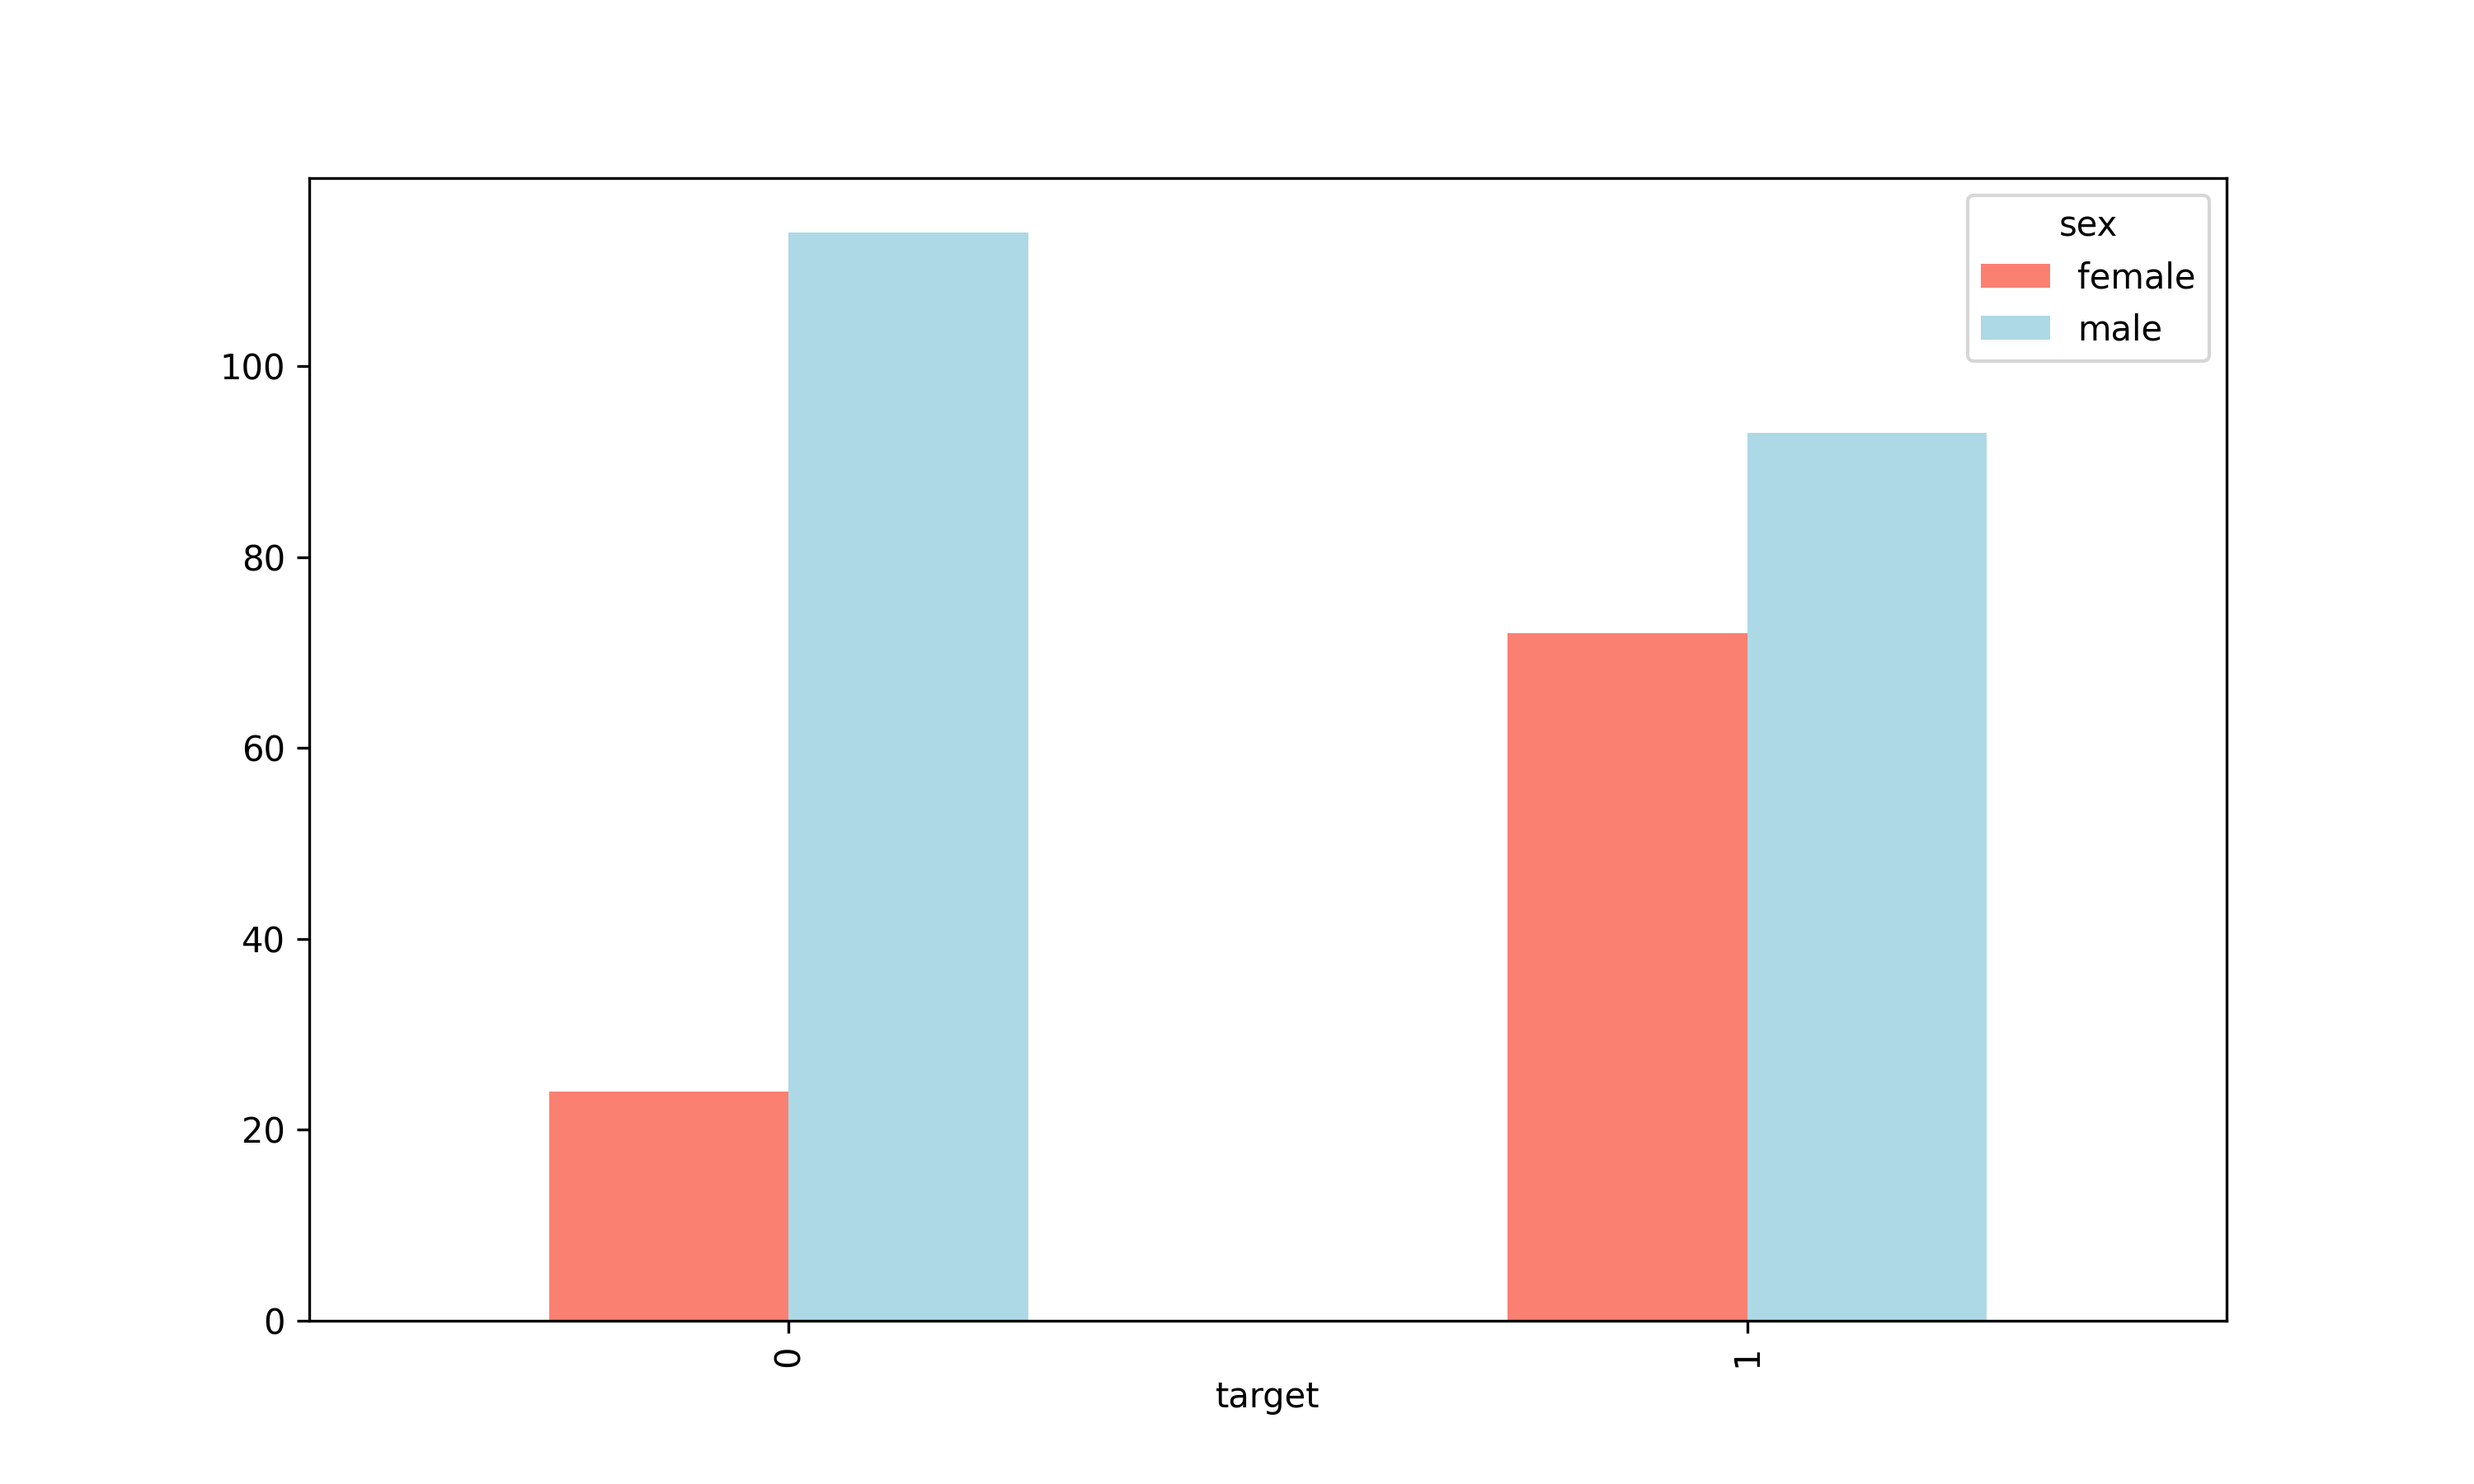
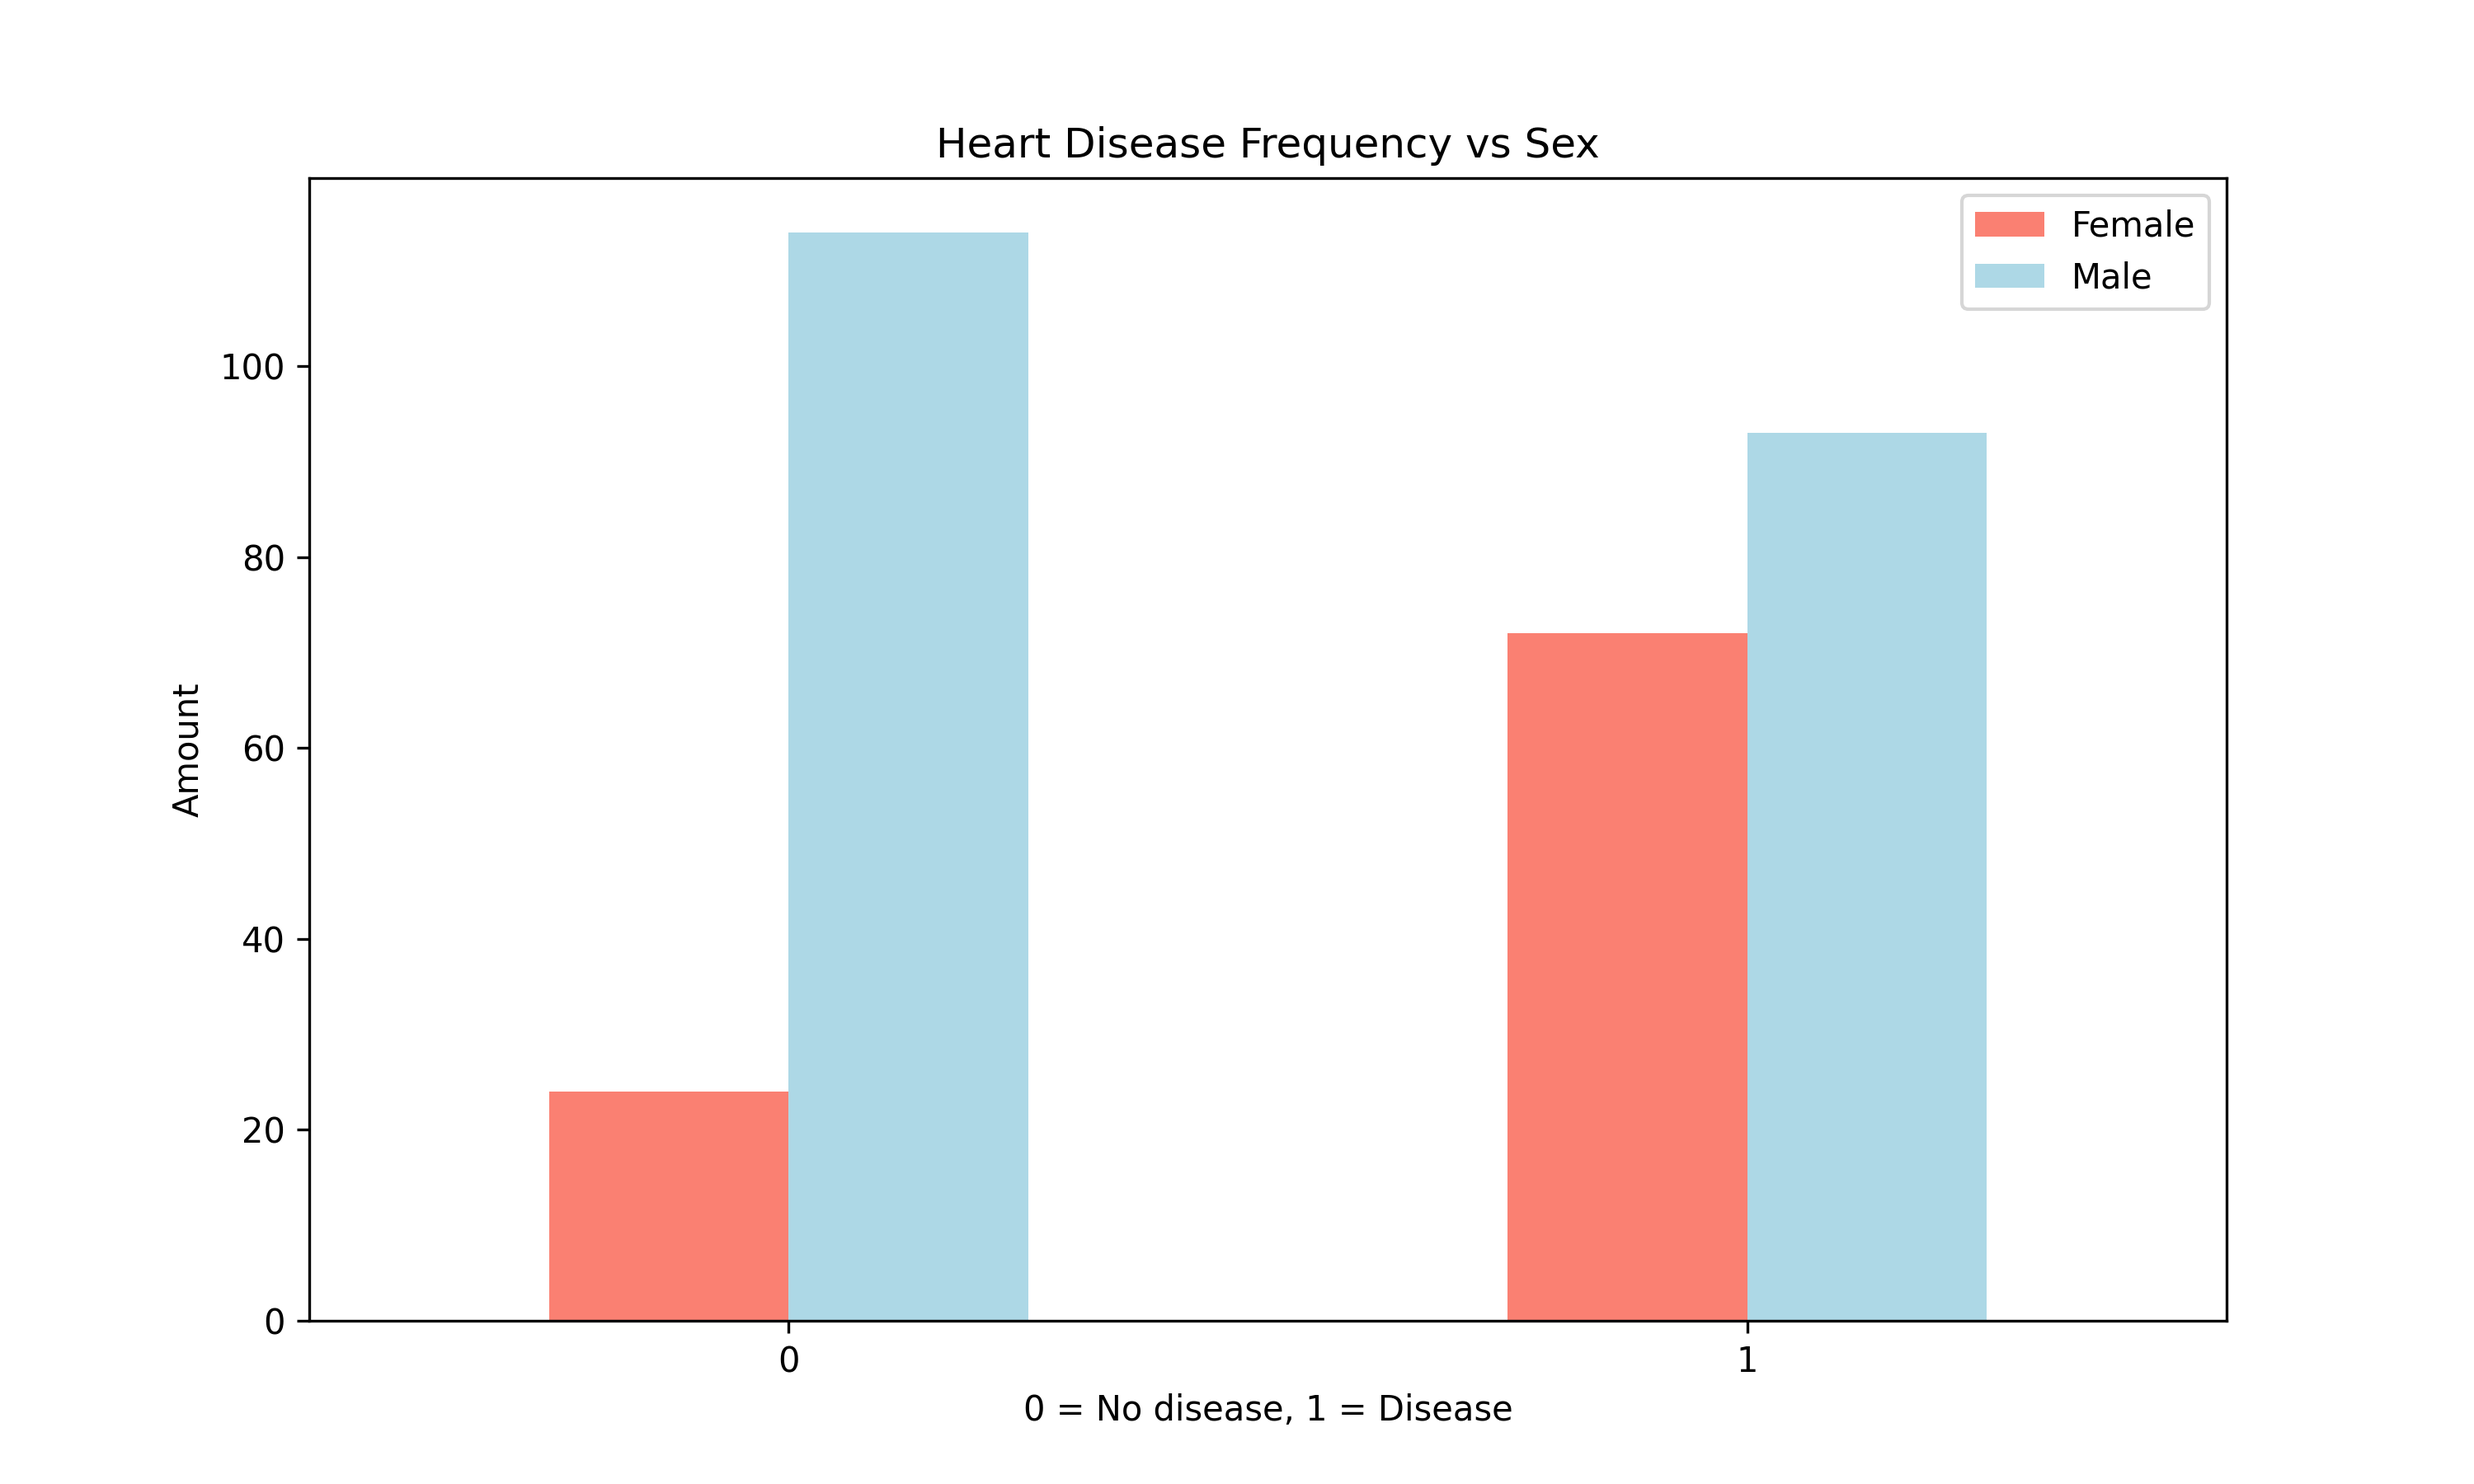
Created new figure for Heart Disease Age and Max Heart Rate

diff --git a/HeartClassifier/heartAnalysisEDA.py b/HeartClassifier/heartAnalysisEDA.py
@@ -52,10 +52,38 @@ if not os.path.exists(folder_name):
 
 
 #Create a plot
-pd.crosstab(df.target, df.sex).plot(kind="bar",
-                                    figsize=(10,6),
-                                    color=["salmon", "lightblue"])
+#pd.crosstab(df.target, df.sex).plot(kind="bar",
+                                    #figsize=(10,6),
+                                    #color=["salmon", "lightblue"])
+#Customization for graph
+#plt.title("Heart Disease Frequency vs Sex")
+#plt.xlabel("0 = No disease, 1 = Disease")
+#plt.ylabel("Amount")
+#plt.legend(["Female", "Male"])
+#plt.xticks(rotation=0)
+#plt.savefig(f'{folder_name}/targetVsSexBarPlot.png', dpi=300)
+#plt.close()
 
-plt.savefig(f'{folder_name}/targetVsSexBarPlot.png', dpi=300)
+#Create another figure
+plt.figure(figsize=(10,6))
+
+#Start with positive examples => Has Heart Disease
+plt.scatter(df.age[df.target==1],
+            df.thalach[df.target==1],
+            c="salmon")
+#Now for negative examples => Does not have Heart Disease
+plt.scatter(df.age[df.target==0],
+            df.thalach[df.target==0],
+            c="lightblue")
+#Customization for the scatterplot
+plt.title("Heart Disease in function of Age and Max Heart Rate")
+plt.xlabel("Age")
+plt.legend(["Disease", "No Disease"])
+plt.ylabel("Max Heart Rate")
+
+plt.savefig(f'{folder_name}/HeartDiseaseAgeAndMaximumHeartRate.png', dpi=300)
 plt.close()
+
+
+
 
